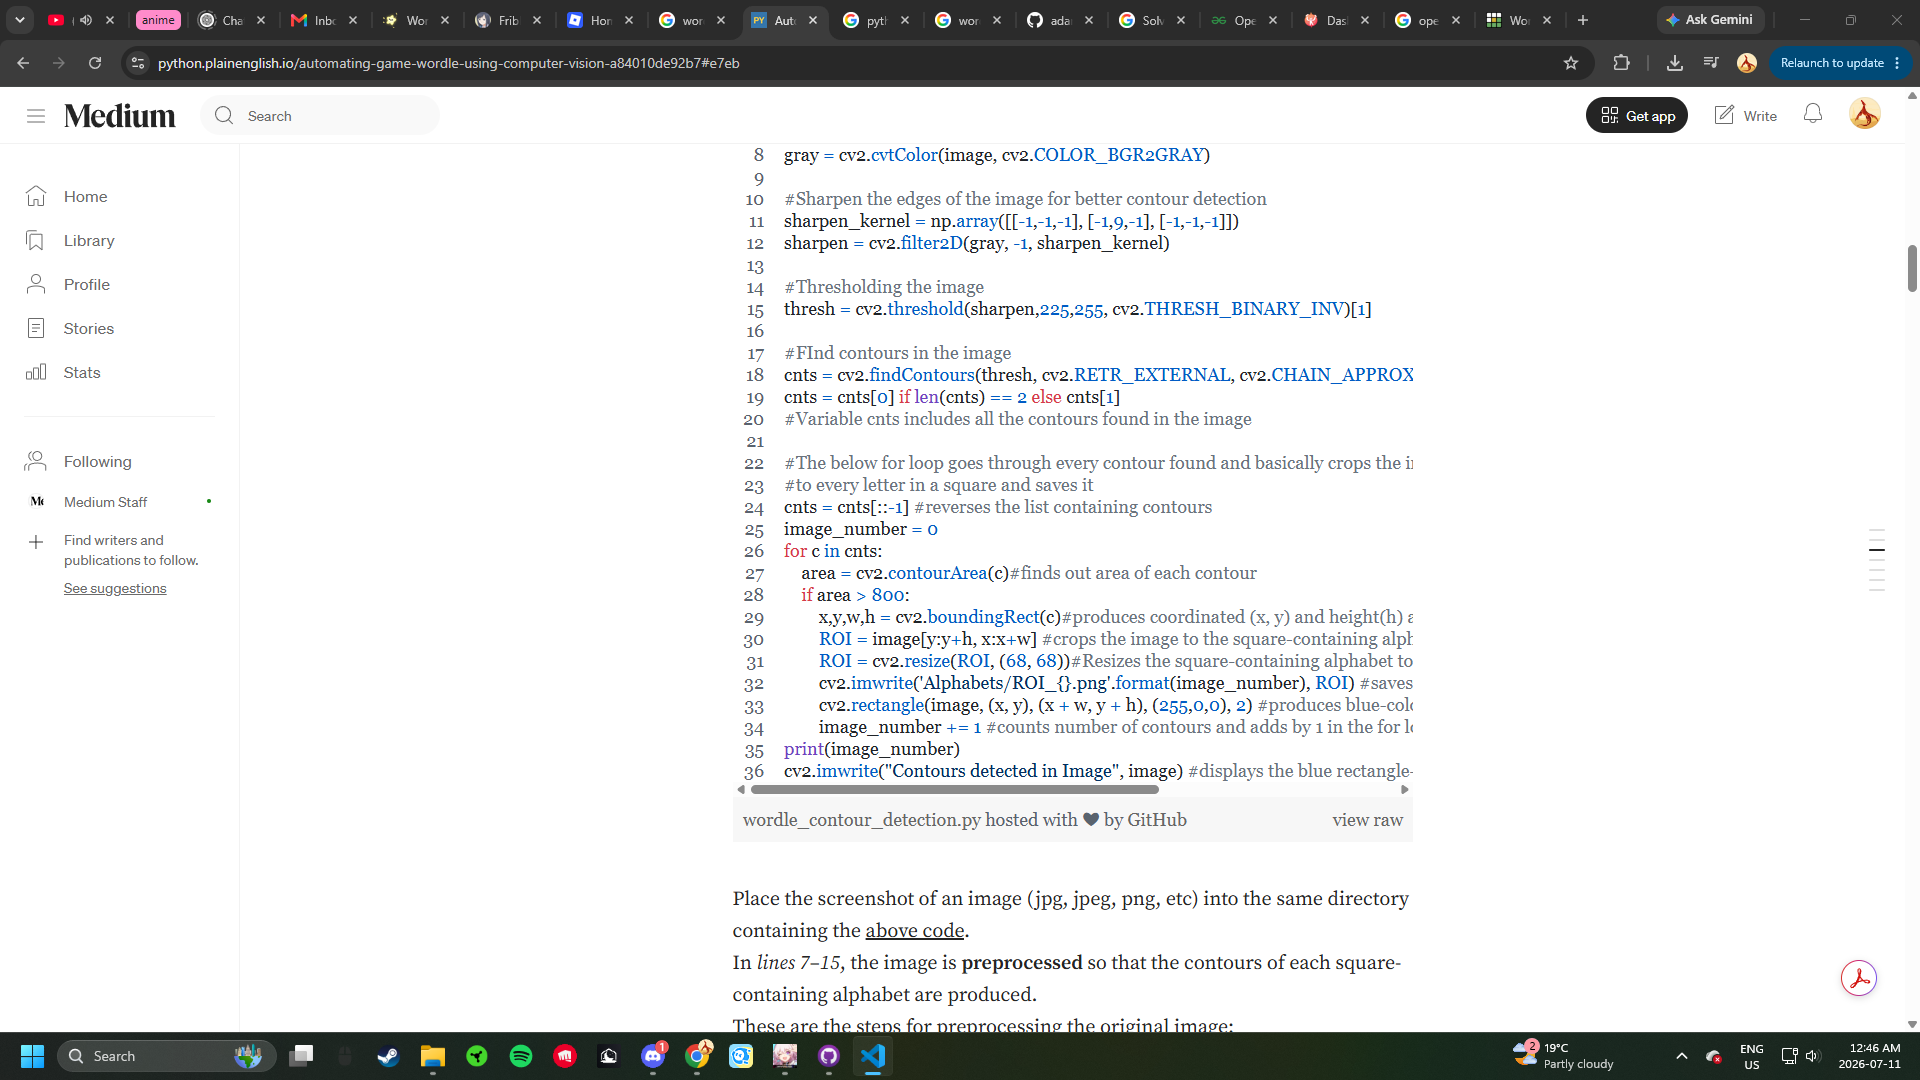
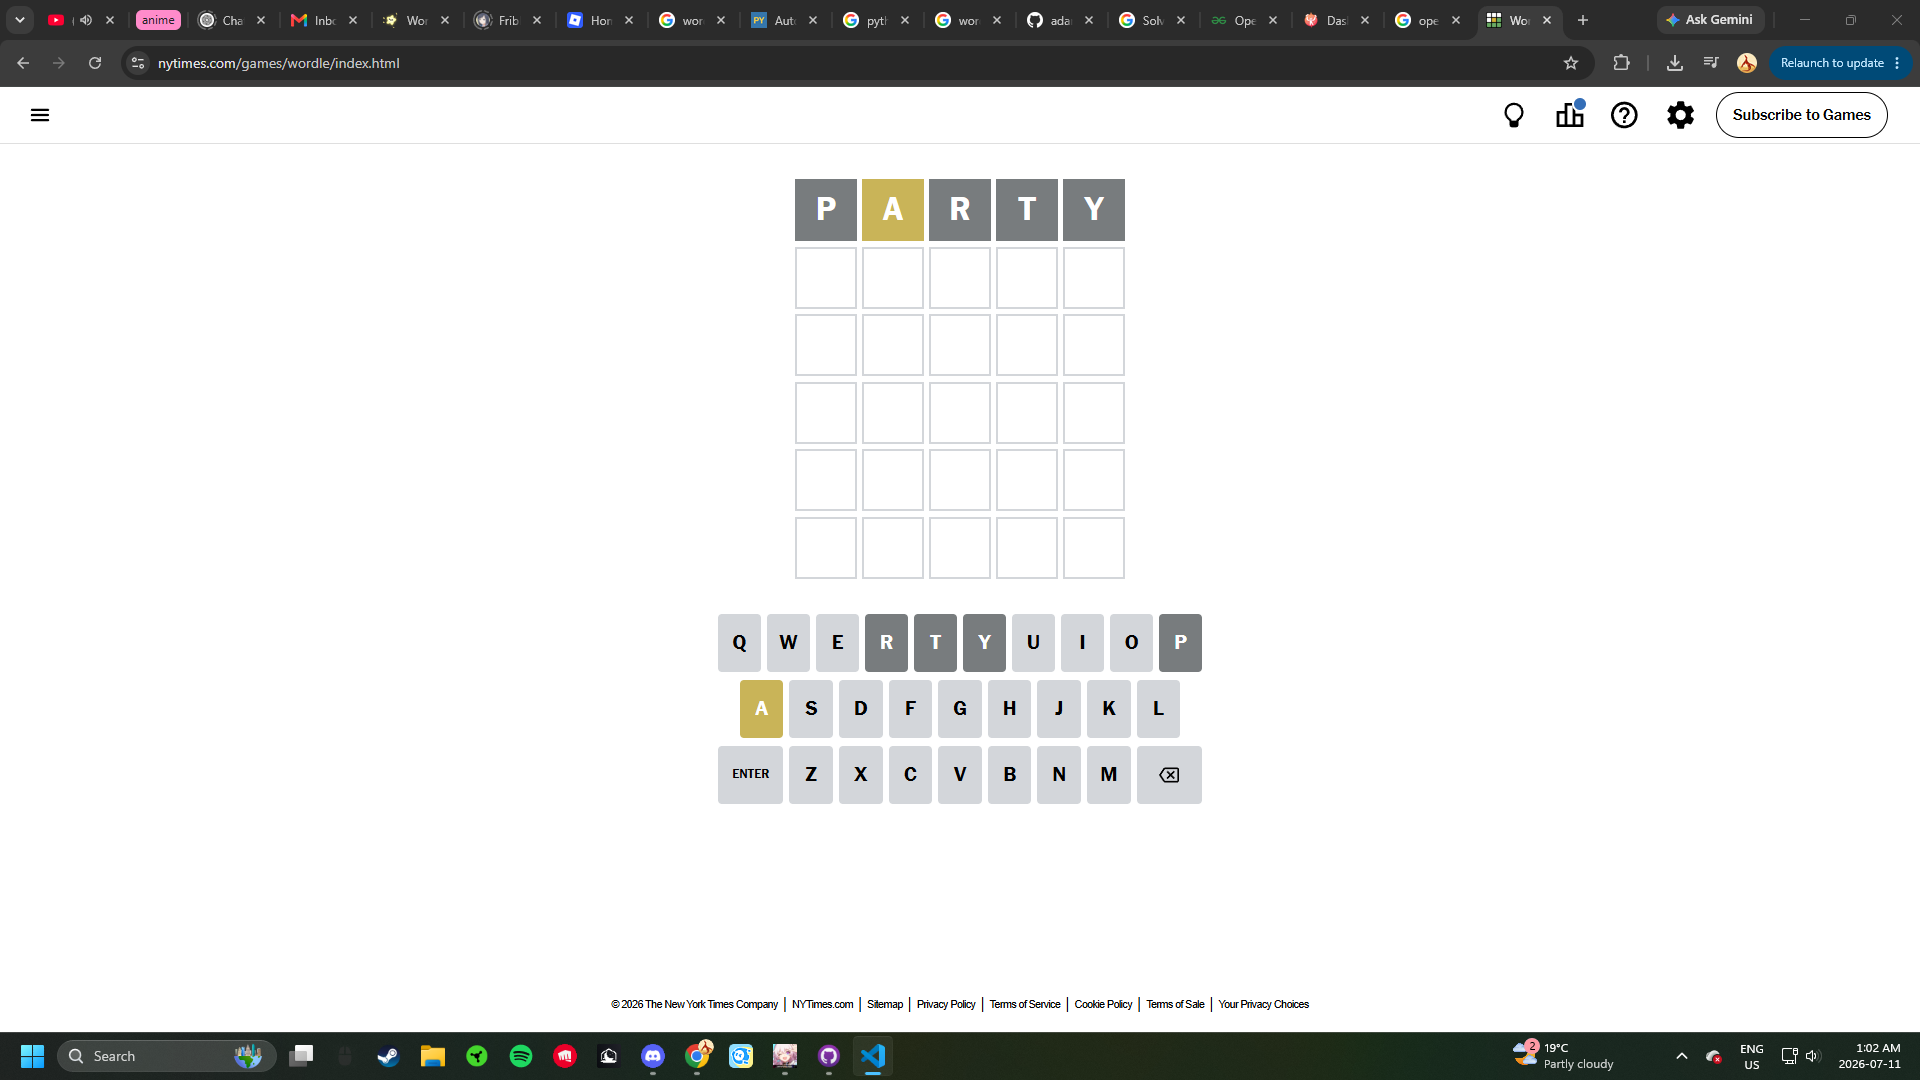
storing letters

diff --git a/wordle-2.0/smth.py b/wordle-2.0/smth.py
@@ -14,11 +14,8 @@ h, w = image.shape[:2]
 # Displaying the height and width
 print("Height = {}, Width = {}".format(h, w))
 
-image = image[100 : 600, 700 : 1200]
+image = image[150 : 600, 700 : 1200]
 gray = cv2.cvtColor(image, cv2.COLOR_BGR2GRAY)
-
-cv2.imshow("Grayscale Image", gray)
-cv2.waitKey(0)
 
 #Sharpen the edges of the image for better contour detection
 sharpen_kernel = np.array([[-1,-1,-1], [-1,9,-1], [-1,-1,-1]])
@@ -49,8 +46,12 @@ for c in cnts:
         cv2.rectangle(image, (x, y), (x + w, y + h), (255,0,0), 2) #produces blue-coloured rectangles on each contour found
         image_number += 1 #counts number of contours and adds by 1 in the for loop
 print(image_number)
-cv2.imwrite("Contours detected in Image", image) #displays the blue rectangle-bounded image to display all contours
+cv2.imwrite("Contours.png", image) #saves the blue rectangle-bounded image to display all contours
 
+# Reading and showing the saved image
+image = cv2.imread('Contours.png')
+cv2.imshow("idk", image)
+cv2.waitKey(0)
 
 # # Reading the image using imread() function
 # image = cv2.imread(r'C:\Users\Jacob\Documents\GITHUB-projects\Wordle-bot\wordle-2.0\geeks14.png')
